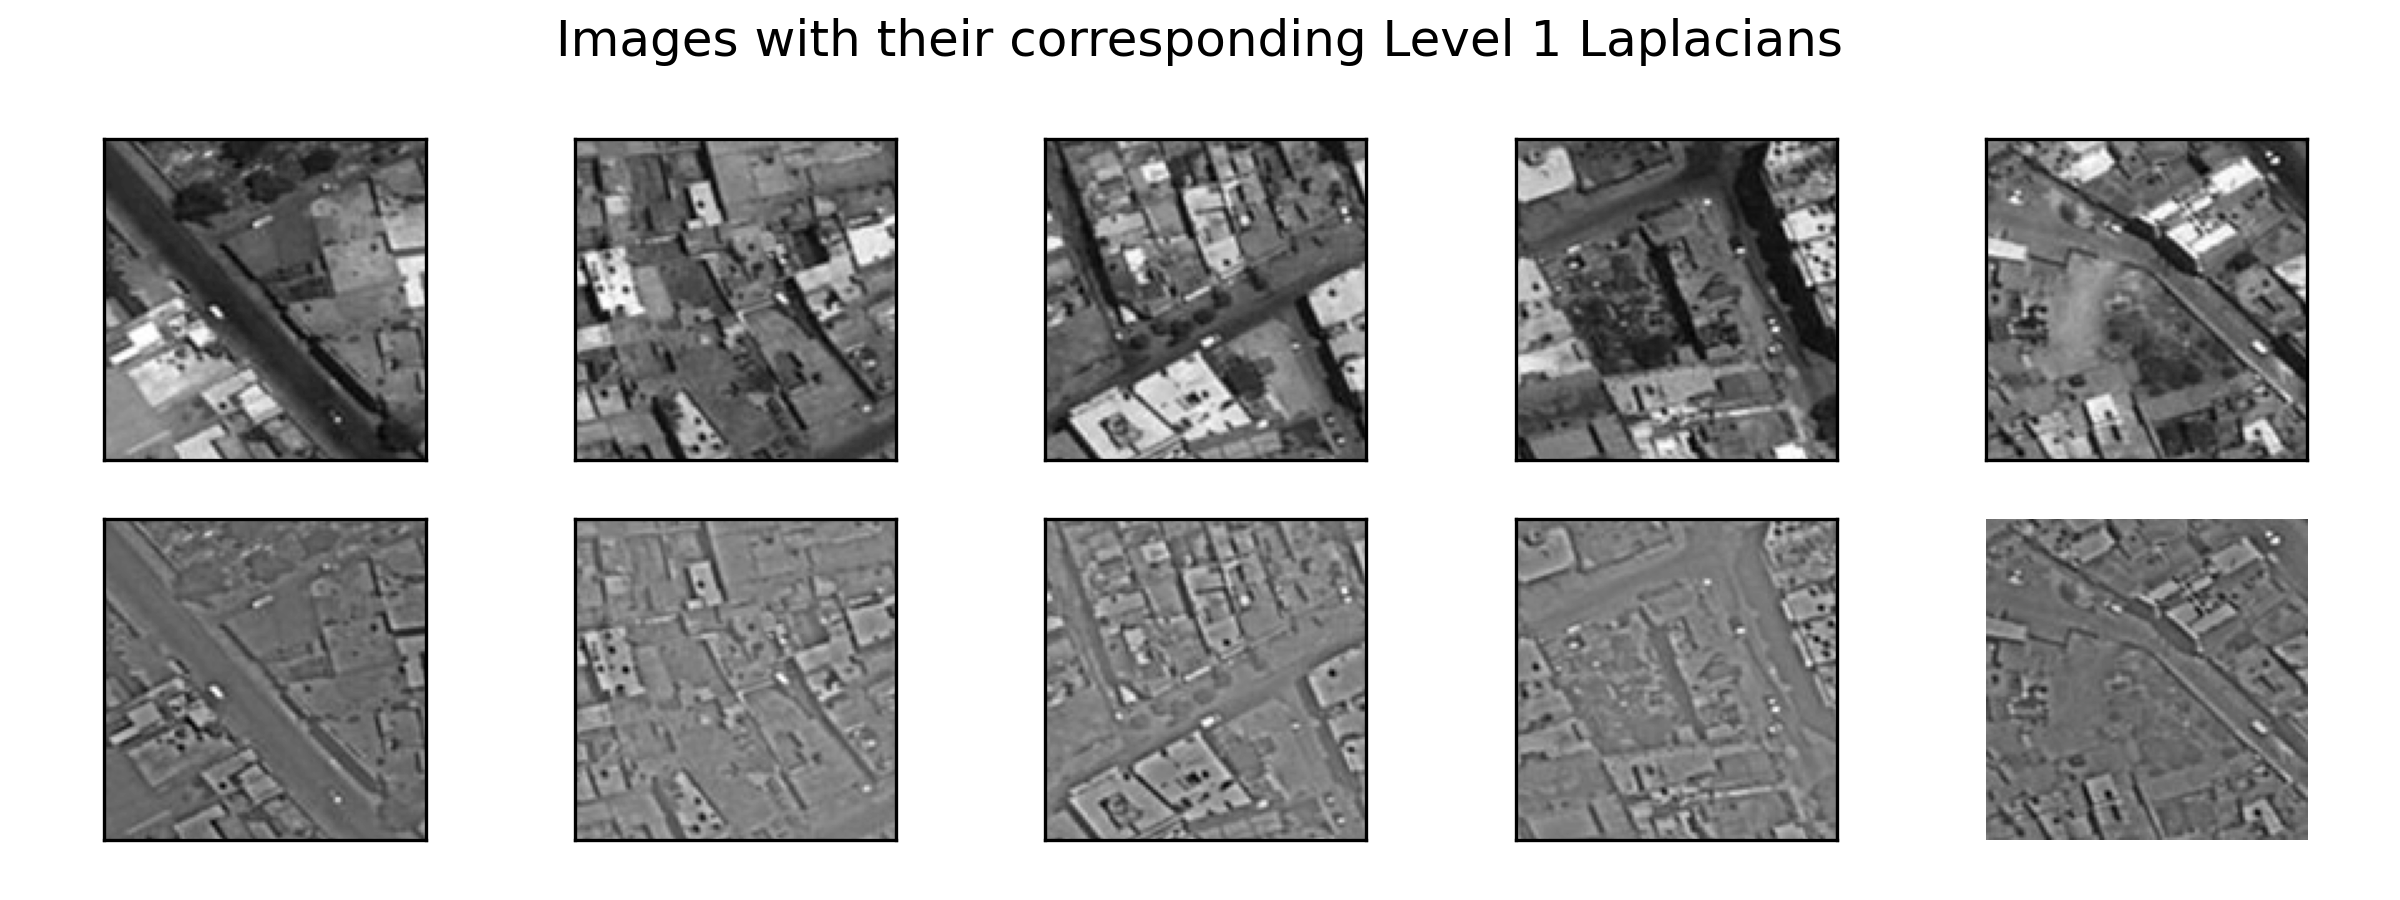
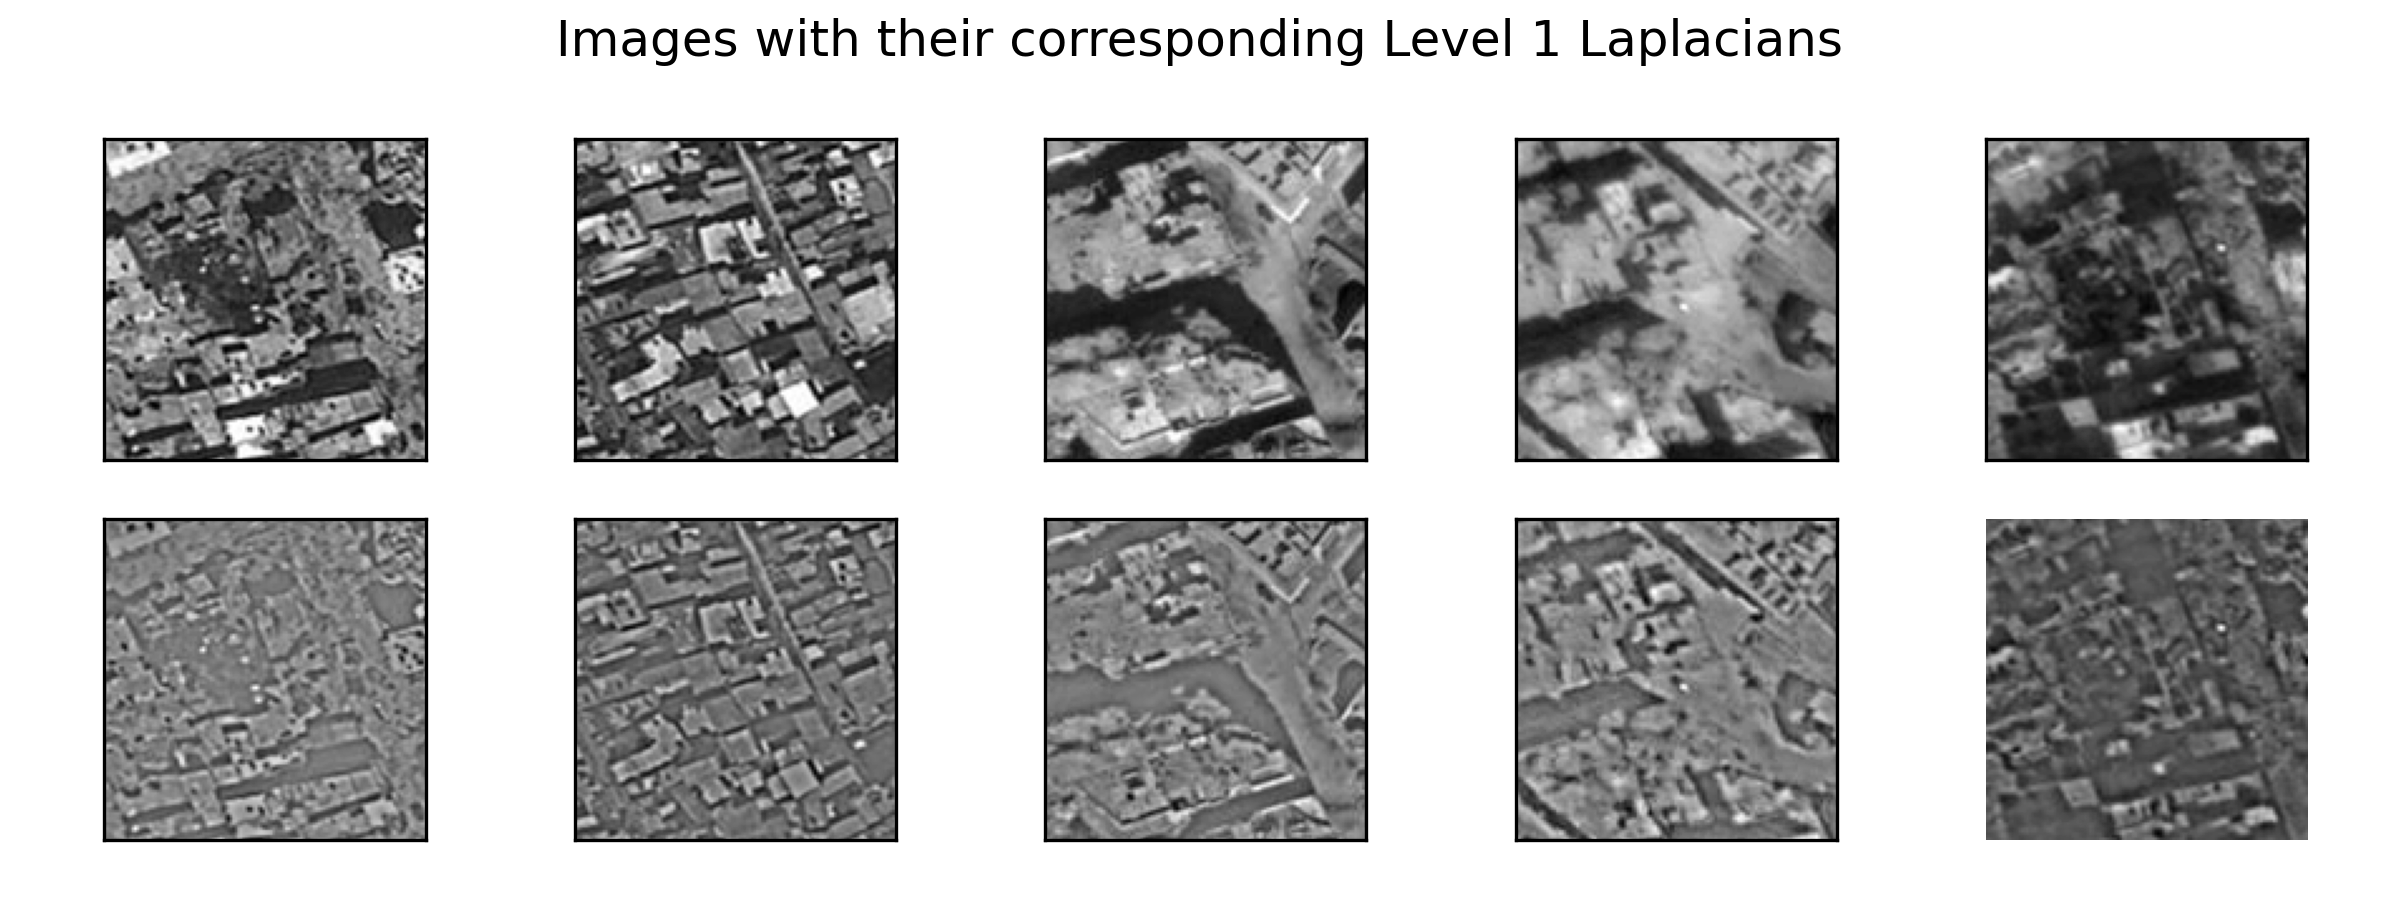
binary by default

diff --git a/experiments/hog_patches/hog_patches.py b/experiments/hog_patches/hog_patches.py
@@ -11,8 +11,8 @@ import multiprocessing as mp
 CITY = "aleppo_cropped"
 TILE_SIZE = (128,128)
 DATA_DIR = "../../../data"
-N_CORES = 30
-BLOCK_SIZE = 1000
+N_CORES = 1
+BLOCK_SIZE = 100
 
 def make_tuple_pair(n, step_size):
     if step_size > n:
@@ -43,6 +43,12 @@ def save_zarr(data, city, suffix, path="../data"):
         za = zarr.open(path, mode='a')
         za.append(data)
 
+def delete_zarr_if_exists(city, suffix, path="../data"):
+    path = f'{path}/{city}/others/{city}_{suffix}.zarr'
+    if os.path.exists(path):
+        shutil.rmtree(path)
+
+
 
 def get_hog(image):
     image = np.float32(image)
@@ -56,7 +62,7 @@ def get_hog_patches(images):
     encodings = None
 
     for i, im in enumerate(images):
-        if i%100==0:
+        if i%5==0:
             print(i)
         _, image = get_hog(im)
         if encodings is None:
@@ -69,40 +75,51 @@ def get_hog_patches(images):
     return hogs, encodings
 
 
-def parallel_block_handler(blocks, images, suffix):
+def parallel_block_handler(blocks, images_pre, images_post, suffix):
     for b in blocks:
         print(b)
-        bl = images[b[0]: b[1]]
-        hogs, encs = get_hog_patches(bl)
-        save_zarr(city=CITY, data=hogs, suffix=suffix, path=DATA_DIR)
+        bl_pre = images_pre[b[0]: b[1]]
+        bl_post = images_post[b[0]: b[1]]
+        hogs_pre, encs = get_hog_patches(bl_pre)
+        hogs_post, encs = get_hog_patches(bl_post)
+        # print(hogs_post.shape)
+        save_zarr(city=CITY, data=hogs_pre, suffix=f"{suffix}_pre", path=DATA_DIR)
+        save_zarr(city=CITY, data=hogs_post, suffix=f"{suffix}_post", path=DATA_DIR)
 
 
-def save_patches_parallel(images, bls, suffix):
+def save_patches_parallel(images_pre, images_post, blocks, suffix):
     parent_chunks = np.array_split(blocks, N_CORES)
     pool = mp.Pool(processes=N_CORES)
-    chunk_processes = [pool.apply_async(parallel_block_handler, args=(chunk, images, suffix)) for chunk in parent_chunks]
+    chunk_processes = [pool.apply_async(parallel_block_handler, args=(chunk, images_pre, images_post, suffix)) for chunk in parent_chunks]
     chunk_results = [chunk.get() for chunk in chunk_processes]
 
+suffixes = ["hog_tr_pre", "hog_va_pre", "hog_te_pre", "hog_tr_post", "hog_va_post", "hog_te_post"]
+# suffixes = [f"{SUFFIX}_snn_tr", f"{SUFFIX}_snn_va", f"{SUFFIX}_snn_te", "la_snn_tr", "la_snn_va","la_snn_te"]
+for s in suffixes:
+    delete_zarr_if_exists(CITY, s, DATA_DIR)
 
 if __name__ == '__main__':
     
 
-    images_tr = read_zarr('aleppo_cropped', 'im_tr', DATA_DIR)
-    blocks = make_tuple_pair(images_tr.shape[0], BLOCK_SIZE)
-    save_patches_parallel(images_tr, blocks, 'hog_tr')
+    images_tr_pre = read_zarr('aleppo_cropped', 'im_tr_pre', DATA_DIR)
+    images_tr_post = read_zarr('aleppo_cropped', 'im_tr_post', DATA_DIR)
+    blocks = make_tuple_pair(images_tr_pre.shape[0], BLOCK_SIZE)
+    save_patches_parallel(images_tr_pre, images_tr_post, blocks, 'hog_tr')
 
 
-    images_va = read_zarr('aleppo_cropped', 'im_va', DATA_DIR)
-    blocks = make_tuple_pair(images_va.shape[0], BLOCK_SIZE)
-    save_patches_parallel(images_va, blocks, 'hog_va')
+    images_va_pre = read_zarr('aleppo_cropped', 'im_va_pre', DATA_DIR)
+    images_va_post = read_zarr('aleppo_cropped', 'im_va_post', DATA_DIR)
+    blocks = make_tuple_pair(images_va_pre.shape[0], BLOCK_SIZE)
+    save_patches_parallel(images_va_pre, images_va_post, blocks, 'hog_va')
 
-    images_te = read_zarr('aleppo_cropped', 'im_te', DATA_DIR)
-    blocks = make_tuple_pair(images_te.shape[0], BLOCK_SIZE)
-    save_patches_parallel(images_te, blocks, 'hog_te')
-
+    images_te_pre = read_zarr('aleppo_cropped', 'im_te_pre', DATA_DIR)
+    images_te_post = read_zarr('aleppo_cropped', 'im_te_post', DATA_DIR)
+    blocks = make_tuple_pair(images_te_pre.shape[0], BLOCK_SIZE)
+    save_patches_parallel(images_te_pre, images_te_post, blocks, 'hog_te')
    
 
-    images_tr_hog = read_zarr('aleppo_cropped', 'hog_tr', DATA_DIR)
+    images_tr_hog = read_zarr('aleppo_cropped', 'hog_va_post', DATA_DIR)
+    print(images_tr_hog)
 
     # Show the first 10 hog
     fig, ax = plt.subplots(2,5,figsize=(8,3), dpi=300)
@@ -110,7 +127,7 @@ if __name__ == '__main__':
     fig.suptitle("Images with their corresponding HOGs")
     for i in range(5):
         axes[i+5].imshow(images_tr_hog[i].reshape(128,128), cmap="gray")
-        axes[i].imshow(images_tr[i, :, :, 1].reshape(128,128), cmap="gray")
+        axes[i].imshow(images_va_post[i, :, :, 1].reshape(128,128), cmap="gray")
     for ax in axes:
         ax.set_xticks([])
         ax.set_yticks([])

diff --git a/experiments/shuffle/shuffle.py b/experiments/shuffle/shuffle.py
@@ -5,7 +5,7 @@ import shutil
 import random
 import math
 
-SUFFIX = 'im'
+# SUFFIX = 'im'
 CITY = 'aleppo_cropped'
 DATA_DIR = "../../../data"
 BLOCK_SIZE = 10000
@@ -42,34 +42,42 @@ def delete_zarr_if_exists(city, suffix, path="../data"):
         shutil.rmtree(path)
 
 def shuffle(old="tr", new="tr_sfl", delete_old=False):
-    images = read_zarr(city=CITY, suffix=f"{SUFFIX}_{old}", path=DATA_DIR)
+    images_pre = read_zarr(city=CITY, suffix=f"im_{old}_pre", path=DATA_DIR)
+    images_post= read_zarr(city=CITY, suffix=f"im_{old}_post", path=DATA_DIR)
     labels = read_zarr(city=CITY, suffix=f"la_{old}", path=DATA_DIR)
-    print("Shape before shuffle", images.shape)
+    print("Shape before shuffle", images_pre.shape)
+    print("Shape before shuffle", images_post.shape)
 
-    n = images.shape[0]
+    n = images_pre.shape[0]
     blocks = make_tuple_pair(n, BLOCK_SIZE)
     np.random.shuffle(blocks)
     print(blocks)
 
     for bl in blocks:
         
-        im = images[bl[0]: bl[1]]
+        im_pre = images_pre[bl[0]: bl[1]]
+        im_post = images_post[bl[0]: bl[1]]
         la = labels[bl[0]: bl[1]]
 
         r = np.arange(0, bl[1] - bl[0])
         np.random.shuffle(r)
-        im = im[r]
+        im_pre = im_pre[r]
+        im_post = im_post[r]
         la = la[r]
-        save_zarr(data=im[r], city=CITY, suffix=f"{SUFFIX}_{new}", path=DATA_DIR)
+        save_zarr(data=im_pre, city=CITY, suffix=f"im_{new}_pre", path=DATA_DIR)
+        save_zarr(data=im_post, city=CITY, suffix=f"im_{new}_post", path=DATA_DIR)
         save_zarr(data=la[r], city=CITY, suffix=f"la_{new}", path=DATA_DIR)
 
     if delete_old == True:
-        delete_zarr_if_exists(CITY, f"{SUFFIX}_{old}", DATA_DIR)
+        delete_zarr_if_exists(CITY, f"im_{old}_pre", DATA_DIR)
+        delete_zarr_if_exists(CITY, f"im_{old}_post", DATA_DIR)
         delete_zarr_if_exists(CITY, f"la_{old}", DATA_DIR)
 
 
 shuffle(old="tr", new="tr_sfl", delete_old=True)
 shuffle(old="tr_sfl", new="tr", delete_old=True)
-print("Sanity check (size)", read_zarr(city=CITY, suffix=f"{SUFFIX}_tr", path=DATA_DIR).shape)
+print("Sanity check (size)", read_zarr(city=CITY, suffix=f"im_tr_pre", path=DATA_DIR).shape)
+print("Sanity check (size)", read_zarr(city=CITY, suffix=f"im_tr_pre", path=DATA_DIR).shape)
+print("Sanity check (size)", read_zarr(city=CITY, suffix=f"la_tr", path=DATA_DIR).shape)
 print("Sanity check (shuffling)", read_zarr(city=CITY, suffix=f"la_tr", path=DATA_DIR)[-10:])
 

diff --git a/experiments/laplacian_patches/laplacian_patches.py b/experiments/laplacian_patches/laplacian_patches.py
@@ -90,24 +90,34 @@ def get_laplacian(z_images,levels):
     return output
 
 
-images_tr = read_zarr('aleppo_cropped', 'im_tr', DATA_DIR)[:]
-images_tr_lap = get_laplacian(images_tr, 3)
-save_zarr(city=CITY, data=images_tr_lap, suffix="lap_tr", path=DATA_DIR)
+images_tr_pre = read_zarr('aleppo_cropped', 'im_tr_pre', DATA_DIR)[:]
+images_tr_lap_pre = get_laplacian(images_tr_pre, 3)
+images_tr_post = read_zarr('aleppo_cropped', 'im_tr_post', DATA_DIR)[:]
+images_tr_lap_post = get_laplacian(images_tr_post, 3)
+save_zarr(city=CITY, data=images_tr_lap_pre, suffix="lap_tr_pre", path=DATA_DIR)
+save_zarr(city=CITY, data=images_tr_lap_post, suffix="lap_tr_post", path=DATA_DIR)
 
-images_va = read_zarr('aleppo_cropped', 'im_va', DATA_DIR)[:]
-images_va_lap = get_laplacian(images_va, 3)
-save_zarr(city=CITY, data=images_va_lap, suffix="lap_va", path=DATA_DIR)
+images_va_pre = read_zarr('aleppo_cropped', 'im_va_pre', DATA_DIR)[:]
+images_va_lap_pre = get_laplacian(images_va_pre, 3)
+images_va_post = read_zarr('aleppo_cropped', 'im_va_post', DATA_DIR)[:]
+images_va_lap_post = get_laplacian(images_va_post, 3)
+save_zarr(city=CITY, data=images_va_lap_pre, suffix="lap_va_pre", path=DATA_DIR)
+save_zarr(city=CITY, data=images_va_lap_post, suffix="lap_va_post", path=DATA_DIR)
 
-images_te = read_zarr('aleppo_cropped', 'im_te', DATA_DIR)[:]
-images_te_lap = get_laplacian(images_te, 3)
-save_zarr(city=CITY, data=images_te_lap, suffix="lap_te", path=DATA_DIR)
+images_te_pre = read_zarr('aleppo_cropped', 'im_te_pre', DATA_DIR)[:]
+images_te_lap_pre = get_laplacian(images_te_pre, 3)
+images_te_post = read_zarr('aleppo_cropped', 'im_te_post', DATA_DIR)[:]
+images_te_lap_post = get_laplacian(images_te_post, 3)
+save_zarr(city=CITY, data=images_te_lap_pre, suffix="lap_te_pre", path=DATA_DIR)
+save_zarr(city=CITY, data=images_te_lap_post, suffix="lap_te_post", path=DATA_DIR)
+
 
 fig, ax = plt.subplots(2,5,figsize=(8,3), dpi=300)
 axes = ax.flatten()
 fig.suptitle("Images with their corresponding Level 1 Laplacians")
 for i in range(5):
-    axes[i+5].imshow(images_tr_lap[i].reshape(128,128), cmap="gray")
-    axes[i].imshow(images_tr[i, :, :, 1].reshape(128,128), cmap="gray")
+    axes[i+5].imshow(images_tr_lap_post[i].reshape(128,128), cmap="gray")
+    axes[i].imshow(images_tr_post[i, :, :, 1].reshape(128,128), cmap="gray")
 for ax in axes:
     ax.set_xticks([])
     ax.set_yticks([])

diff --git a/experiments/balance/balance.py b/experiments/balance/balance.py
@@ -22,7 +22,8 @@ def save_zarr(data, city, suffix, path="../data"):
         za.append(data)
 
 
-images = read_zarr(CITY, 'im_tr', DATA_DIR)
+images_pre = read_zarr(CITY, 'im_tr_pre', DATA_DIR)
+images_post = read_zarr(CITY, 'im_tr_post', DATA_DIR)
 labels = read_zarr(CITY, 'la_tr', DATA_DIR)
 
 def make_tuple_pair(n, step_size):
@@ -43,7 +44,8 @@ blocks = make_tuple_pair(labels.shape[0], BLOCK_SIZE)
 
 pos = []
 for i, bl in enumerate(blocks):
-    im = images[bl[0]: bl[1]]
+    im_pre = images_pre[bl[0]: bl[1]]
+    im_post = images_post[bl[0]: bl[1]]
     la = labels[bl[0]: bl[1]]
 
     p = list(*np.where(la==1))
@@ -60,13 +62,15 @@ add = random.choices(pos, k=(neg - len(pos)))
 add = sorted(add)
 
 for i, bl in enumerate(blocks):
-    im = images[bl[0]: bl[1]]
+    im_pre = images_pre[bl[0]: bl[1]]
+    im_post = images_post[bl[0]: bl[1]]
     la = labels[bl[0]: bl[1]]
 
     ind = [j - (i*BLOCK_SIZE) for j in add if j >= bl[0] and j < bl[1]]
     if len(ind) > 0:
         # print(im[ind].shape)
-        save_zarr(im[ind], CITY, "im_tr", DATA_DIR)
+        save_zarr(im_pre[ind], CITY, "im_tr_pre", DATA_DIR)
+        save_zarr(im_post[ind], CITY, "im_tr_post", DATA_DIR)
         save_zarr(la[ind], CITY, "la_tr", DATA_DIR)
 
 print(f"There were {labels.shape[0]} total. {neg} negative; {len(pos)} positive. Added {len(add)} positive samples")

diff --git a/experiments/pca/pca.py b/experiments/pca/pca.py
@@ -50,9 +50,9 @@ def save_zarr(data, city, suffix, path="../data"):
 
 
 
-images_tr = read_zarr(CITY, f"{SUFFIX}_tr", DATA_DIR)[:]
-images_va = read_zarr(CITY, f"{SUFFIX}_va", DATA_DIR)[:]
-images_te = read_zarr(CITY, f"{SUFFIX}_te", DATA_DIR)[:]
+images_tr = read_zarr(CITY, f"{SUFFIX}_tr_post", DATA_DIR)[:]
+images_va = read_zarr(CITY, f"{SUFFIX}_va_post", DATA_DIR)[:]
+images_te = read_zarr(CITY, f"{SUFFIX}_te_post", DATA_DIR)[:]
 
 images_tr = images_tr.reshape((images_tr.shape[0], 128*128))
 images_va = images_va.reshape((images_va.shape[0], 128*128))

diff --git a/experiments/tsne/tsne.py b/experiments/tsne/tsne.py
@@ -52,9 +52,9 @@ Y = tsne[:, 1]
 
 
 
-images_tr = read_zarr(CITY, f"lap_tr", DATA_DIR)[:]
-images_va = read_zarr(CITY, f"lap_va", DATA_DIR)[:]
-images_te = read_zarr(CITY, f"lap_te", DATA_DIR)[:]
+images_tr = read_zarr(CITY, f"{SUFFIX}_tr_post", DATA_DIR)[:]
+images_va = read_zarr(CITY, f"{SUFFIX}_va_post", DATA_DIR)[:]
+images_te = read_zarr(CITY, f"{SUFFIX}_te_post", DATA_DIR)[:]
 
 # images_tr = images_tr.reshape((images_tr.shape[0], 128*128))
 # images_va = images_va.reshape((images_va.shape[0], 128*128))
